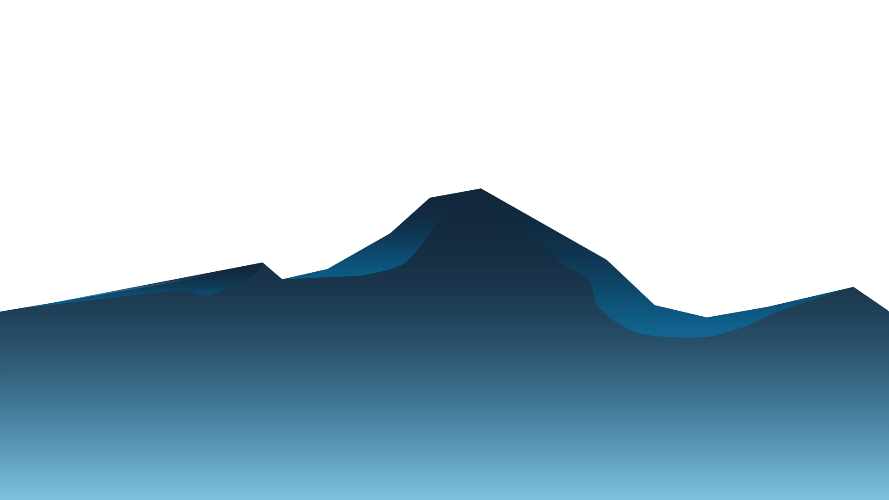
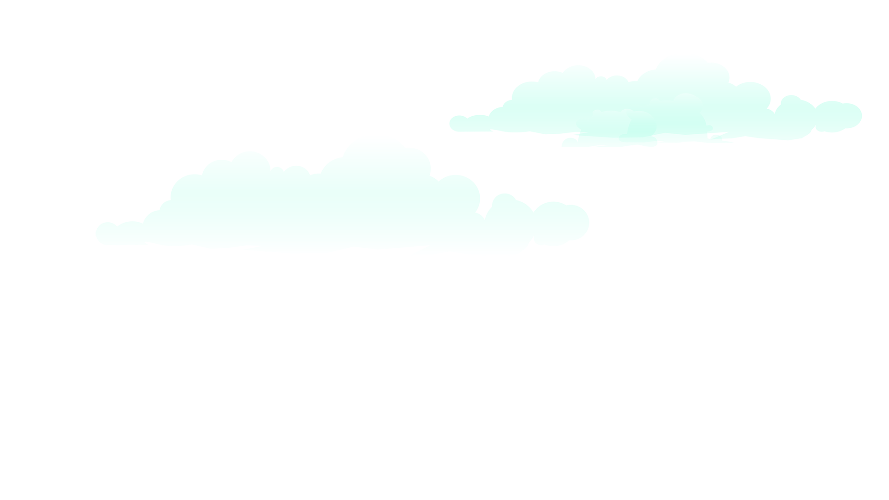
fix background

diff --git a/src/background.js b/src/background.js
@@ -9,7 +9,7 @@ class Layer {
     this.y = 0
   }
   update() {
-    if (this.x < -this.width) this.x = 0
+    if (this.x < -this.width) this.x = -5
     else this.x -= this.game.speed * this.speedModifier
   }
   draw(context) {
@@ -31,16 +31,14 @@ export default class Background {
       this.layerImg5 = layer5
       this.layerImg6 = layer6
       this.layerImg7 = layer7
-      this.layerImg8 = layer8
       this.layer1 = new Layer(this.game, this.width, this.height, 1, this.layerImg1)
       this.layer2 = new Layer(this.game, this.mainWidth, this.height, 0.9, this.layerImg2)
       this.layer3 = new Layer(this.game, this.width, this.height, 0.8, this.layerImg3)
       this.layer4 = new Layer(this.game, this.width, this.height, 0.7, this.layerImg4)
       this.layer5 = new Layer(this.game, this.width, this.height, 0.5, this.layerImg5)
       this.layer6 = new Layer(this.game, this.width, this.height, 0.3, this.layerImg6)
-      this.layer7 = new Layer(this.game, this.width, this.height, 0.2, this.layerImg7)
-      this.layer8 = new Layer(this.game, this.width, this.height, 0.05, this.layerImg8)
-      this.layers = [this.layer8, this.layer7, this.layer6, this.layer5, this.layer4, this.layer3, this.layer2, this.layer1]
+      this.layer7 = new Layer(this.game, this.width, this.height, 0, this.layerImg7)
+      this.layers = [this.layer7, this.layer6, this.layer5, this.layer4, this.layer3, this.layer2, this.layer1]
     }
     update(){
       this.layers.forEach(layer => layer.update())

diff --git a/src/playerStates.js b/src/playerStates.js
@@ -140,7 +140,7 @@ export class Hit extends State {
       this.game.player.frameY = 0
       this.game.player.maxFrame = 13
     }
-    handleInput(input){
+    handleInput(){
       if(this.game.lives > 0 && !this.game.gameOver){
       if(this.game.player.frameX >= 3 && this.game.player.onGround()) this.game.player.setState(states.RUNNING, 2)
       else if (this.game.player.frameX >= 3 && !this.game.player.onGround()) this.game.player.setState(states.FALLING, 2)

diff --git a/style.css b/style.css
@@ -31,6 +31,6 @@ body {
   background-color: rgb(17, 58, 85);
 }
 
-#player, #layer1, #layer2, #layer3, #layer4, #layer5, #layer6, #layer7, #layer8, #flyingEnemy, #groundEnemy, #climbingEnemy, #boom, #heart, #energy, #groundObstacle, #pumpkin, #fire {
+#player, #layer1, #layer2, #layer3, #layer4, #layer5, #layer6, #layer7, #flyingEnemy, #groundEnemy, #climbingEnemy, #boom, #heart, #energy, #groundObstacle, #pumpkin, #fire {
   display: none;
 }

diff --git a/index.html b/index.html
@@ -23,7 +23,6 @@
     <img id="layer5" src="assets/background/5.png" />
     <img id="layer6" src="assets/background/6.png" />
     <img id="layer7" src="assets/background/7.png" />
-    <img id="layer8" src="assets/background/8.png" />
     <img id="flyingEnemy" src="assets/enemies/enemy2.png" />
     <img id="groundEnemy" src="assets/enemies/enemy1.png" />
     <img id="groundObstacle" src="assets/enemies/enemy4.png" />
